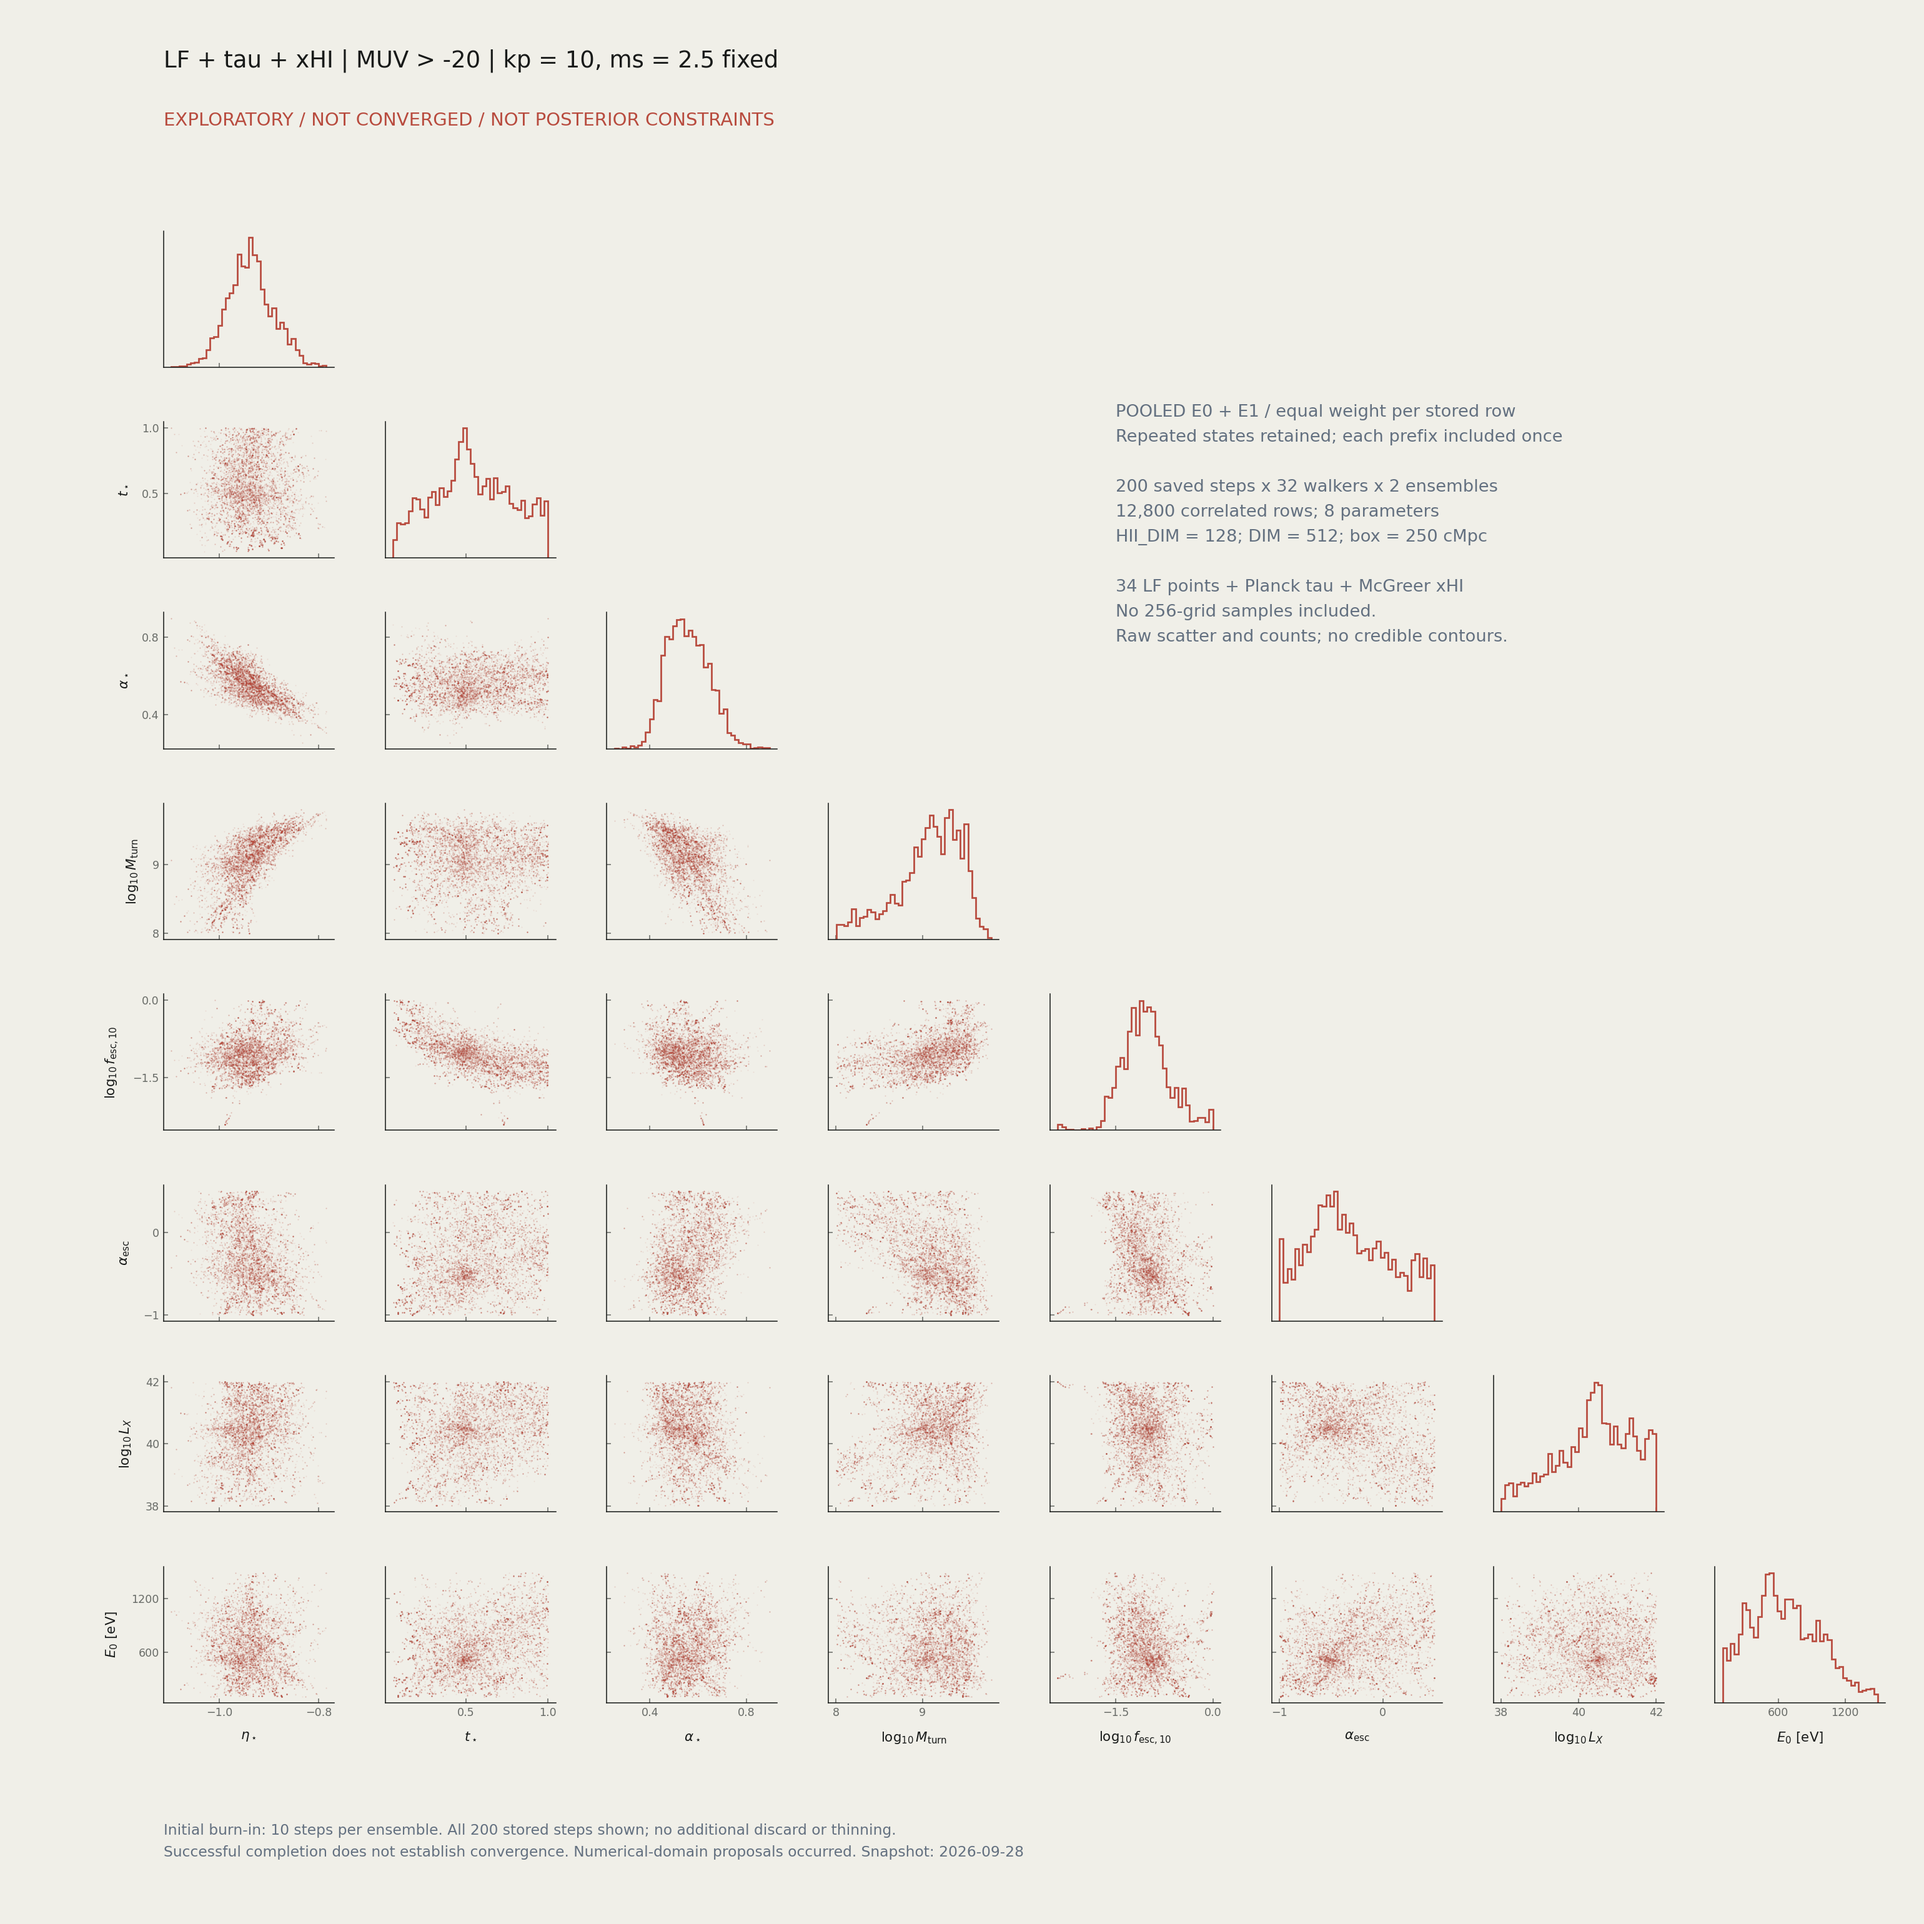
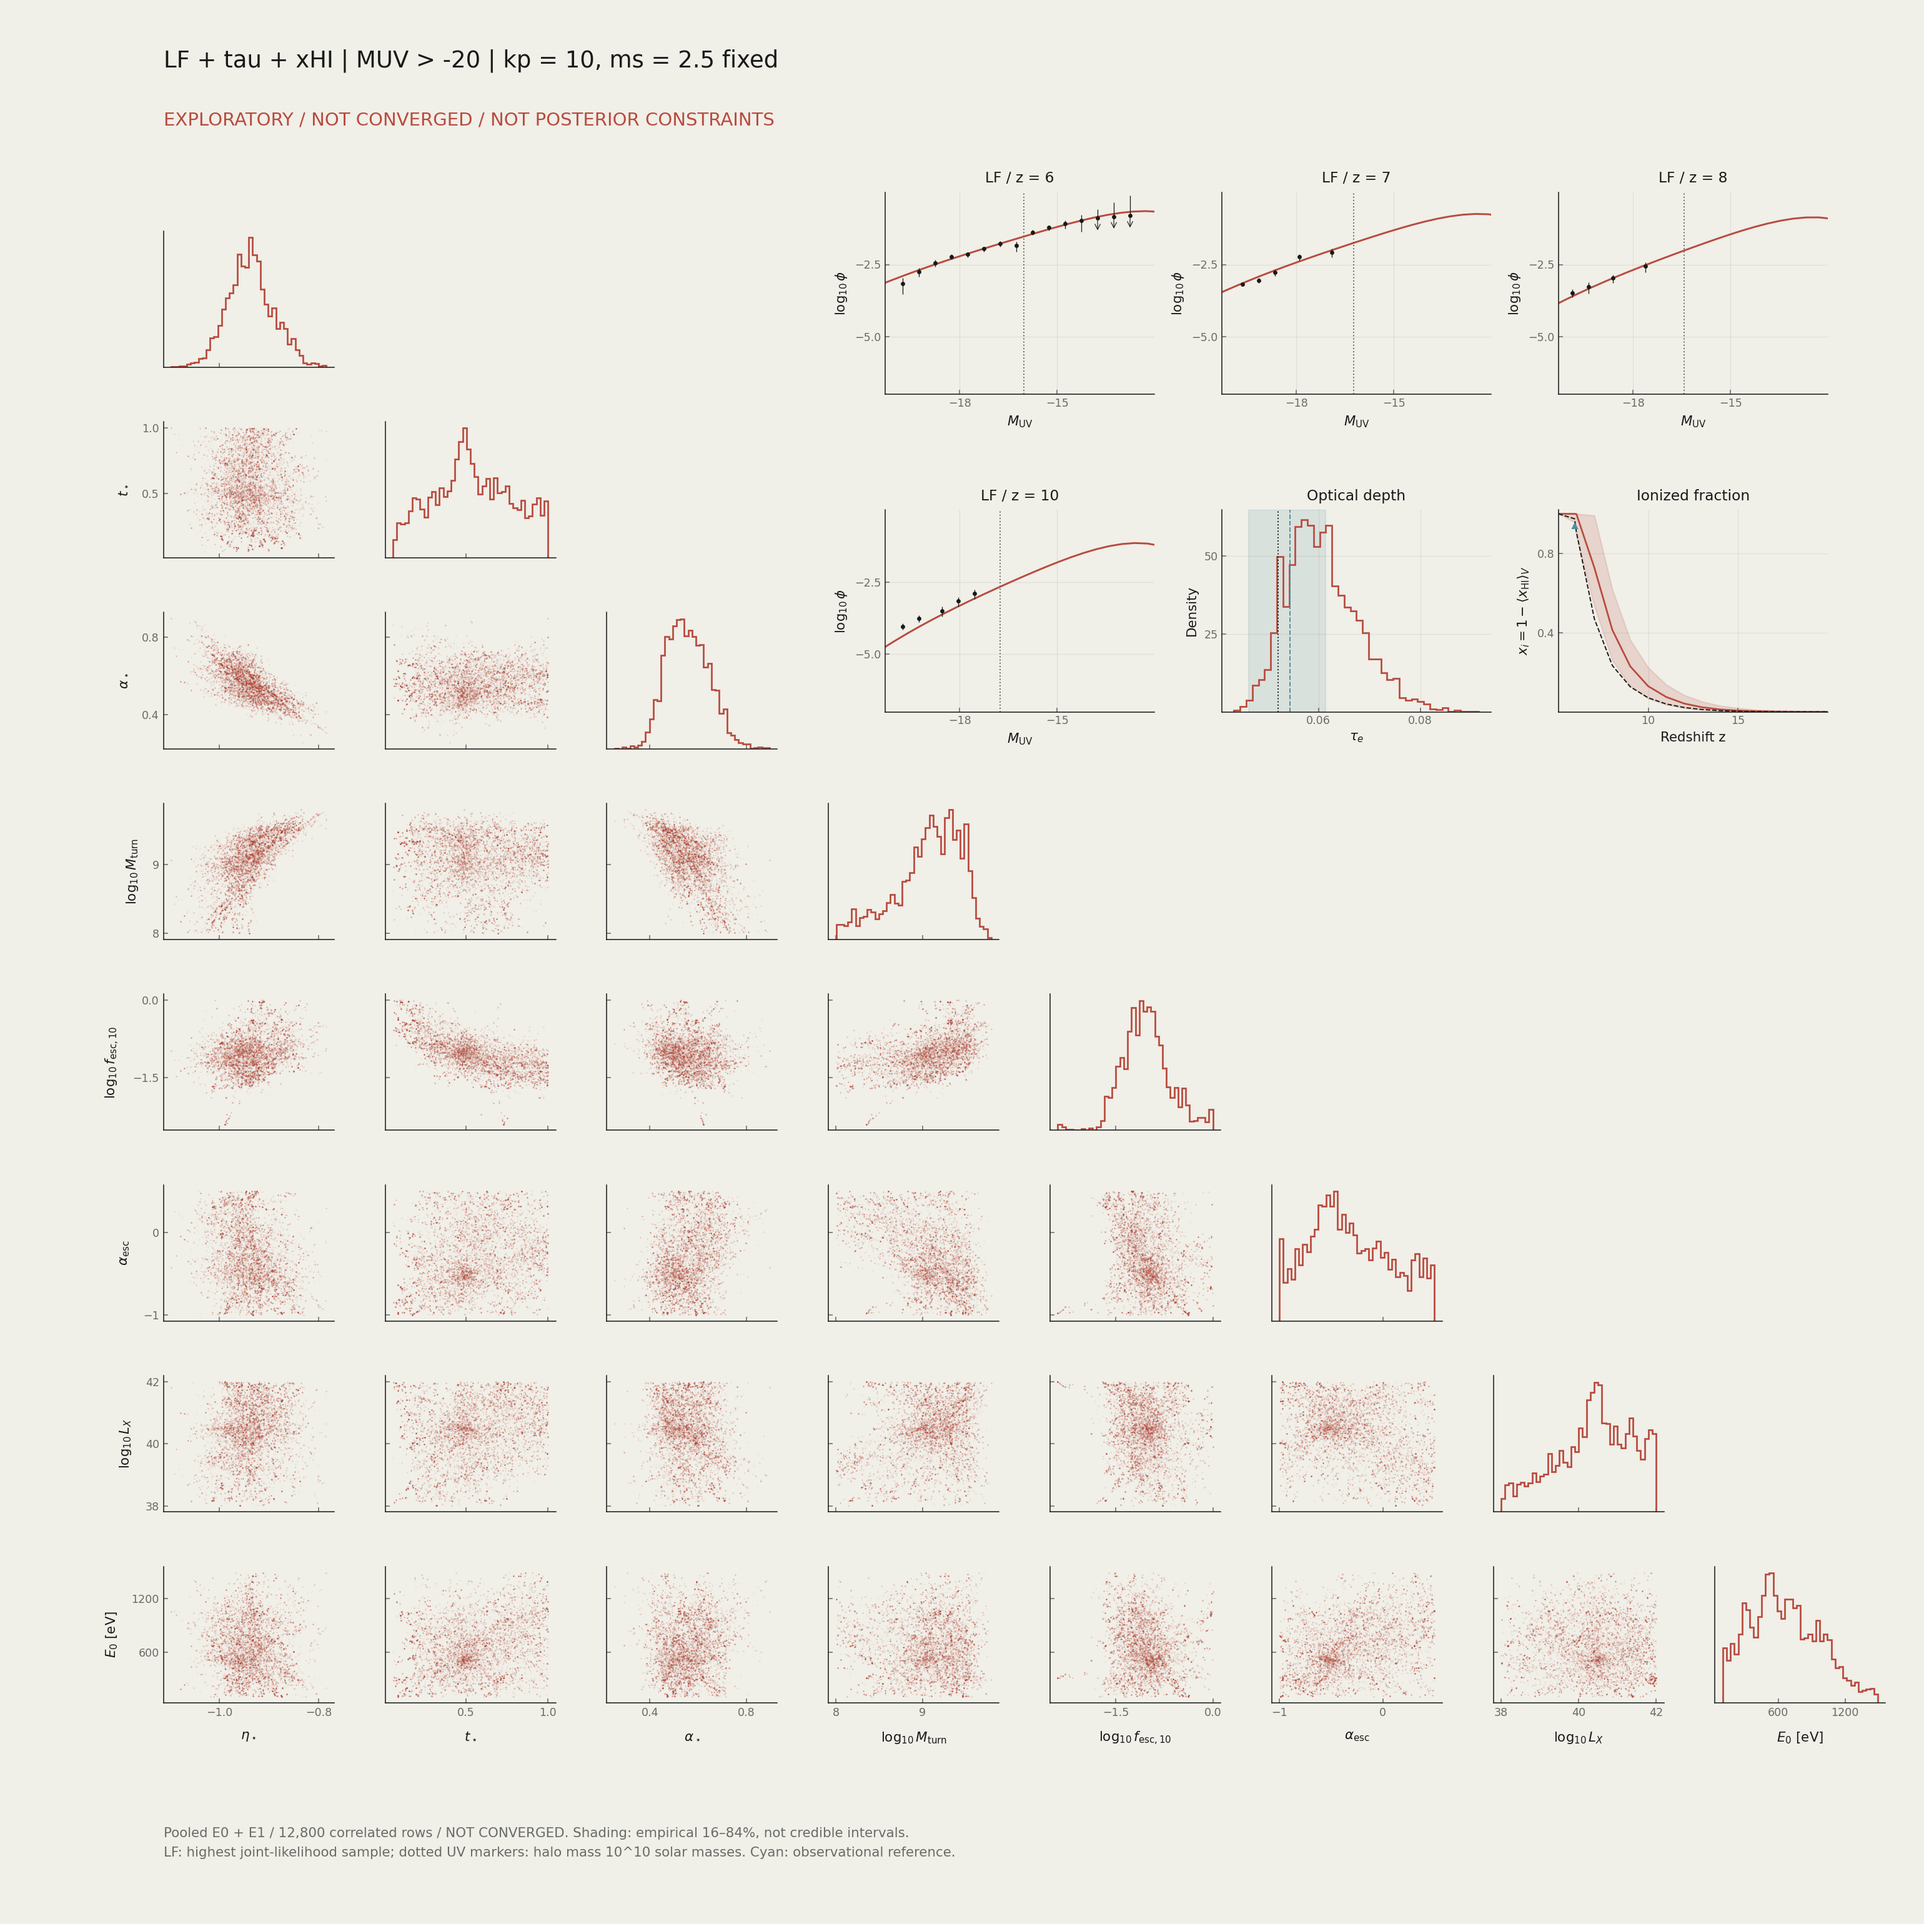
Arrange LF tau and xi panels inside pooled corner figures

diff --git a/ms-corner.html b/ms-corner.html
@@ -47,12 +47,12 @@
   <section id="corner" class="ms-card" aria-labelledby="corner-title">
     <div class="section-heading"><div><span class="section-index">03</span><h2 id="corner-title" data-i18n="msSampling">Raw sampling coordinates</h2></div></div>
     <p data-i18n="msCaption">E0 + E1 pooled with equal weight per stored row; repeated states retained. Raw scatter and marginal counts, not validated posterior constraints. η★ = log₁₀(f★,10/t★).</p>
-    <a href="web_data/joint_muv20/corner_eta.png?v=671035eece05"><img src="web_data/joint_muv20/corner_eta.png?v=671035eece05" data-ms-alt="msEtaAlt" alt="Eight-parameter joint functional-test samples with MUV > −20; not posterior constraints"></a>
+    <a href="web_data/joint_muv20/corner_eta.png?v=292b30a1675c"><img src="web_data/joint_muv20/corner_eta.png?v=292b30a1675c" data-ms-alt="msEtaAlt" alt="Eight-parameter joint functional-test samples with MUV > −20; not posterior constraints"></a>
     <p class="ms-note" data-i18n="msFigureLanguage">Plot annotations remain in English; captions switch with the interface.</p>
   </section>
   <section class="ms-card"><details><summary data-i18n="msNative">Native stellar-efficiency coordinates</summary>
     <p data-i18n="msTransform">Coordinate transformation only: log₁₀ f★,10 = η★ + log₁₀ t★. No resampling or change of weights.</p>
-    <a href="web_data/joint_muv20/corner_native.png?v=851ed20dc1d1"><img loading="lazy" src="web_data/joint_muv20/corner_native.png?v=851ed20dc1d1" data-ms-alt="msNativeAlt" alt="Eight-parameter raw samples in native stellar coordinates"></a>
+    <a href="web_data/joint_muv20/corner_native.png?v=b896f5b72bdf"><img loading="lazy" src="web_data/joint_muv20/corner_native.png?v=b896f5b72bdf" data-ms-alt="msNativeAlt" alt="Eight-parameter raw samples in native stellar coordinates"></a>
   </details></section>
   <section id="pooled-observables" class="ms-card">
     <h2 data-i18n="jointObservables">Pooled LF, optical depth &amp; ionization</h2>

diff --git a/index.html b/index.html
@@ -247,8 +247,8 @@
           <a class="system-action" href="ms-corner.html#pooled-observables" data-i18n="mcmcDiagnostics">LF, τ, xi · data &amp; diagnostics ↗</a>
         </div>
         <figure class="inference-figure">
-          <a id="mcmc-joint-open" href="web_data/joint_muv20/corner_eta.png?v=671035eece05" target="_blank" rel="noopener" data-i18n-title="mcmcOpen" title="Open full-resolution figure">
-            <img id="mcmc-joint-image" src="web_data/joint_muv20/corner_eta.png?v=671035eece05" width="3080" height="3080" loading="lazy" decoding="async" data-i18n-alt="mcmcJointAlt" alt="Eight-parameter joint functional-test samples; not posterior constraints">
+          <a id="mcmc-joint-open" href="web_data/joint_muv20/corner_eta.png?v=292b30a1675c" target="_blank" rel="noopener" data-i18n-title="mcmcOpen" title="Open full-resolution figure">
+            <img id="mcmc-joint-image" src="web_data/joint_muv20/corner_eta.png?v=292b30a1675c" width="3080" height="3080" loading="lazy" decoding="async" data-i18n-alt="mcmcJointAlt" alt="Eight-parameter joint functional-test samples; not posterior constraints">
           </a>
           <figcaption><span>FIG / 06B</span><span data-i18n="mcmcJointCaption">E0 + E1 pooled with equal weight per stored row; repeated states retained. Raw scatter and marginal counts, not validated posterior constraints. η★ = log₁₀(f★,10/t★).</span></figcaption>
         </figure>
